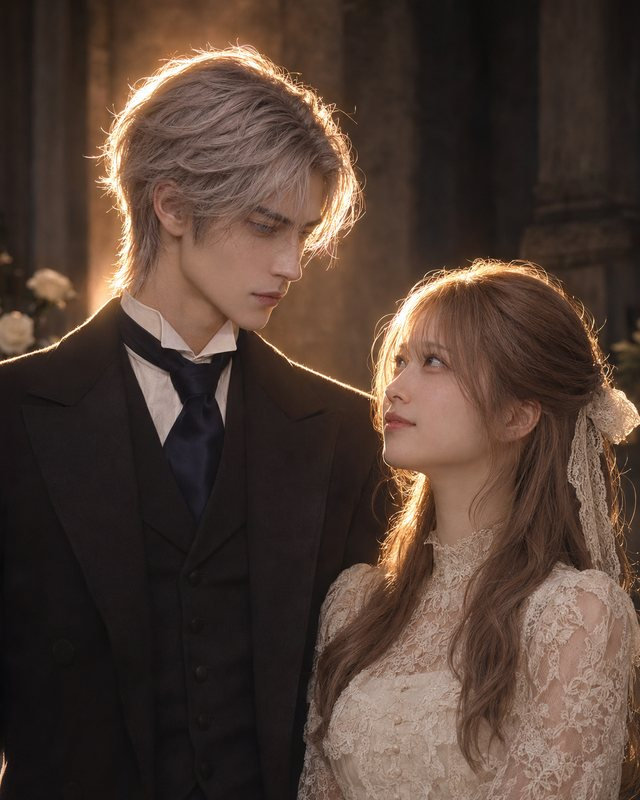
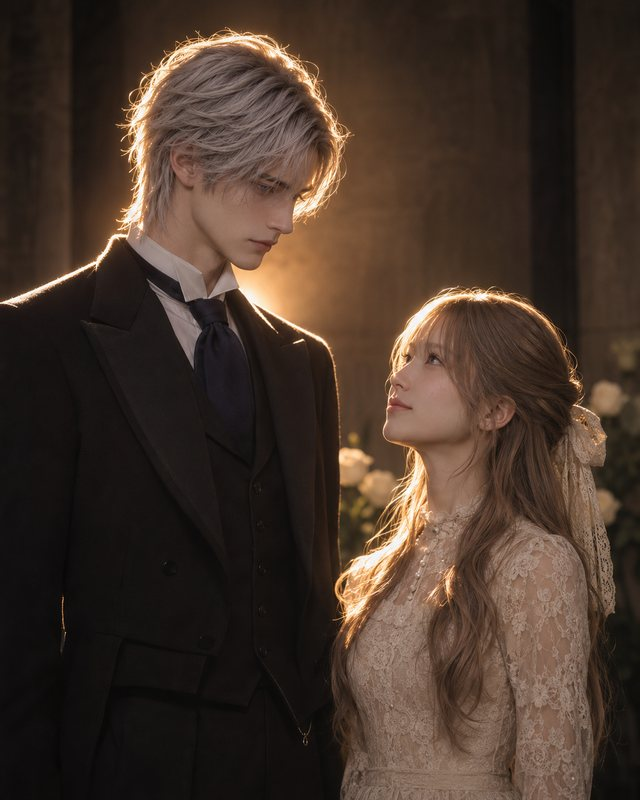
Shotbook 30: key-light samples redrawn with the height difference
- The five key-light photos redrawn so the woman's crown sits at the
  man's shoulder line, as in the pose samples; light directions unchanged
- Image links carry a version tag so browsers show the new photos

diff --git a/index.html b/index.html
@@ -1342,7 +1342,7 @@ const LIGHT_DESC = {
 function lightCardsMount(sel, imgBase, opt){ if(!sel || sel.dataset.cards) return; sel.dataset.cards='1'; const plain=!!(opt&&opt.plain);
   const box=document.createElement('div'); box.className='lightcards'; box.setAttribute('role','radiogroup');
   [...sel.options].forEach(o=>{ const v=o.value; const b=document.createElement('button'); b.type='button'; b.className='lcard'; b.dataset.v=v; b.setAttribute('role','radio');
-    b.innerHTML=`<span class="lc-img"><img alt="" loading="lazy"${v==='preset'?' data-preset="1"':` src="${imgBase}${v}.jpg"`}></span><span class="lc-cap"><span class="lc-nm">${o.textContent}</span><span class="lc-d">${(LIGHT_DESC[v]||['',''])[plain?1:0]}</span></span>`;
+    b.innerHTML=`<span class="lc-img"><img alt="" loading="lazy"${v==='preset'?' data-preset="1"':` src="${imgBase}${v}.jpg?v=2"`}></span><span class="lc-cap"><span class="lc-nm">${o.textContent}</span><span class="lc-d">${(LIGHT_DESC[v]||['',''])[plain?1:0]}</span></span>`;
     b.addEventListener('click', ()=>{ sel.value=v; sel.dispatchEvent(new Event('change', {bubbles:true})); lightCardsSync(); });
     box.appendChild(b); });
   sel.insertAdjacentElement('afterend', box); sel.classList.add('lc-hidden'); sel.addEventListener('change', lightCardsSync);
@@ -1363,7 +1363,7 @@ function ratioChipsSync(){ const sel=RATIOC.sel, box=RATIOC.box; if(!sel || !box
 (function(){
 'use strict';
 const $ = (id)=>document.getElementById(id);
-const APP_VERSION = '配布版 第29版 ／ 2026-11-05 10:08 JST';
+const APP_VERSION = '配布版 第30版 ／ 2026-11-05 10:42 JST';
 document.addEventListener('DOMContentLoaded', ()=>{ const v=$('verMark'); if(v) v.textContent = APP_VERSION; });
 function esc(t){ return String(t).replace(/[&<>"]/g, c=>({'&':'&amp;','<':'&lt;','>':'&gt;','"':'&quot;'}[c])); }
 function toast(m){ const t=$('toast'); if(!t) return; t.textContent=m; clearTimeout(toast._t); toast._t=setTimeout(()=>{ t.textContent=''; }, 2600); }
